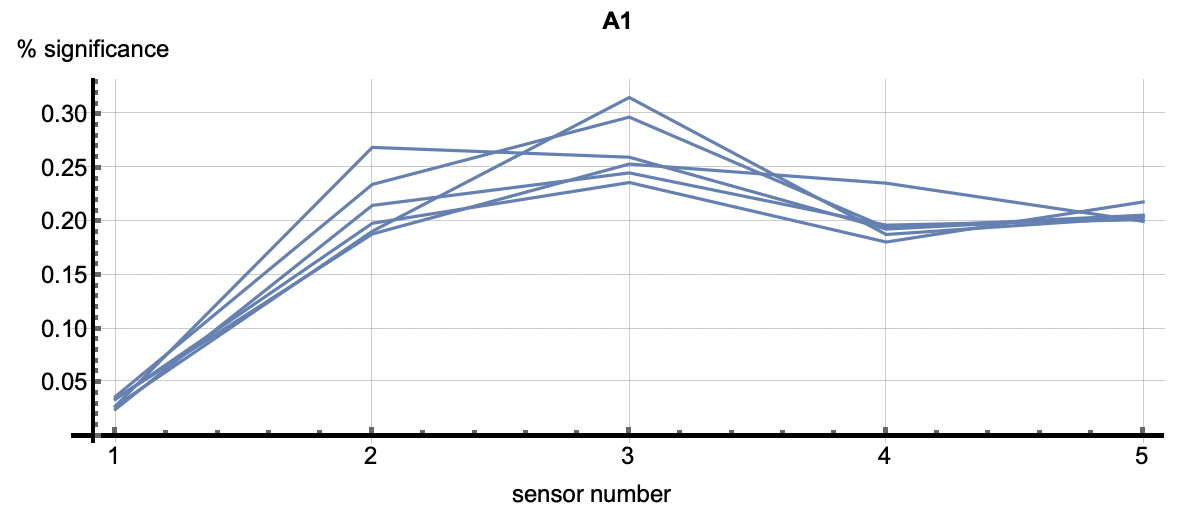
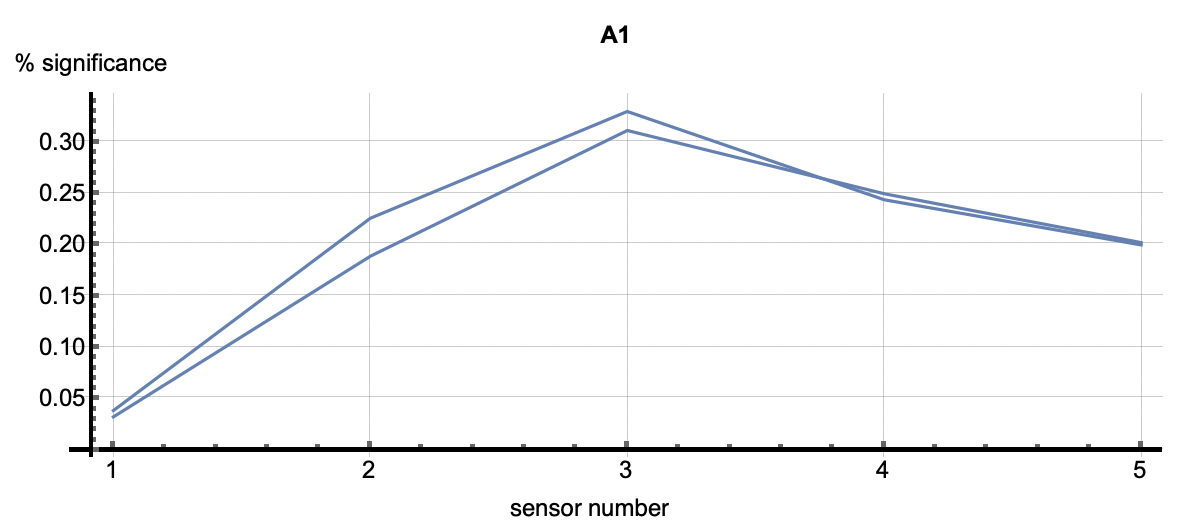
update root cause plots and description for the 6 detections in example dataset

diff --git a/docs/AmberDocs/SensorFusionExample/SensorFusionExample.md b/docs/AmberDocs/SensorFusionExample/SensorFusionExample.md
@@ -50,7 +50,7 @@ Using the data set provided and the Amber configuration above, you should get re
 <a href="AmberDemo_Results.csv" download>Download Amber Results</a>
 
 ### Interpreting Root Cause
-Root Cause Analysis applies to all clustered patterns, but most often is used in the analysis of anomalous patters. Using the cluster IDs associated with the six flagged anomalies, the root cause analysis vectors correlate with each anomaly. Each detection has multiple cluster IDs associated with it which is represented by each of the vectors shown in one of the following images. The six images correlate to the six anomaly detections shown above. 
+Root Cause Analysis applies to all clustered patterns, but most often is used in the analysis of anomalous patters. Using the cluster IDs associated with the six flagged anomalies, the root cause analysis vectors correlate with each anomaly. Each detection has multiple cluster IDs associated with it. The root cause vectors associated with the cluster IDs for one anomalous flagging are shown by each of the vectors shown in one of the following images. The six images correlate to the six anomaly detections shown above. 
 
 <table class="table">
   <tr>
@@ -64,7 +64,7 @@ Root Cause Analysis applies to all clustered patterns, but most often is used in
     <td><img src="./images/A6.png" width="300"></td>
   </tr>
   <tr>
-    <td colspan="3"><em>Figure 3: The six plots are associated with the six anomalies talked about above. The different vectors in each figure are associated with the various clusters that occured in each detection. The first two plots are fairly even in terms of significance value across the features. A3 through A6 however, have a higher significance with feature 5. This shows that that feature is most different from the other clusters created.   </em></td>
+    <td colspan="3"><em>Figure 3: The six plots are associated with the six anomalies talked about above. The different vectors in each figure are associated with the various clusters that occured in each detection. The first two plots are fairly even in terms of significance value across the features. These two are relational anomalies that don't have specific features that cause the detection but rather the  correlation between values that cause it. A3 through A6 however, have a high significance with feature 5 as well as 2 or 3 depending on the detection. This shows that those features are most different from the other clusters created.   </em></td>
   </tr>
 </table>
 
